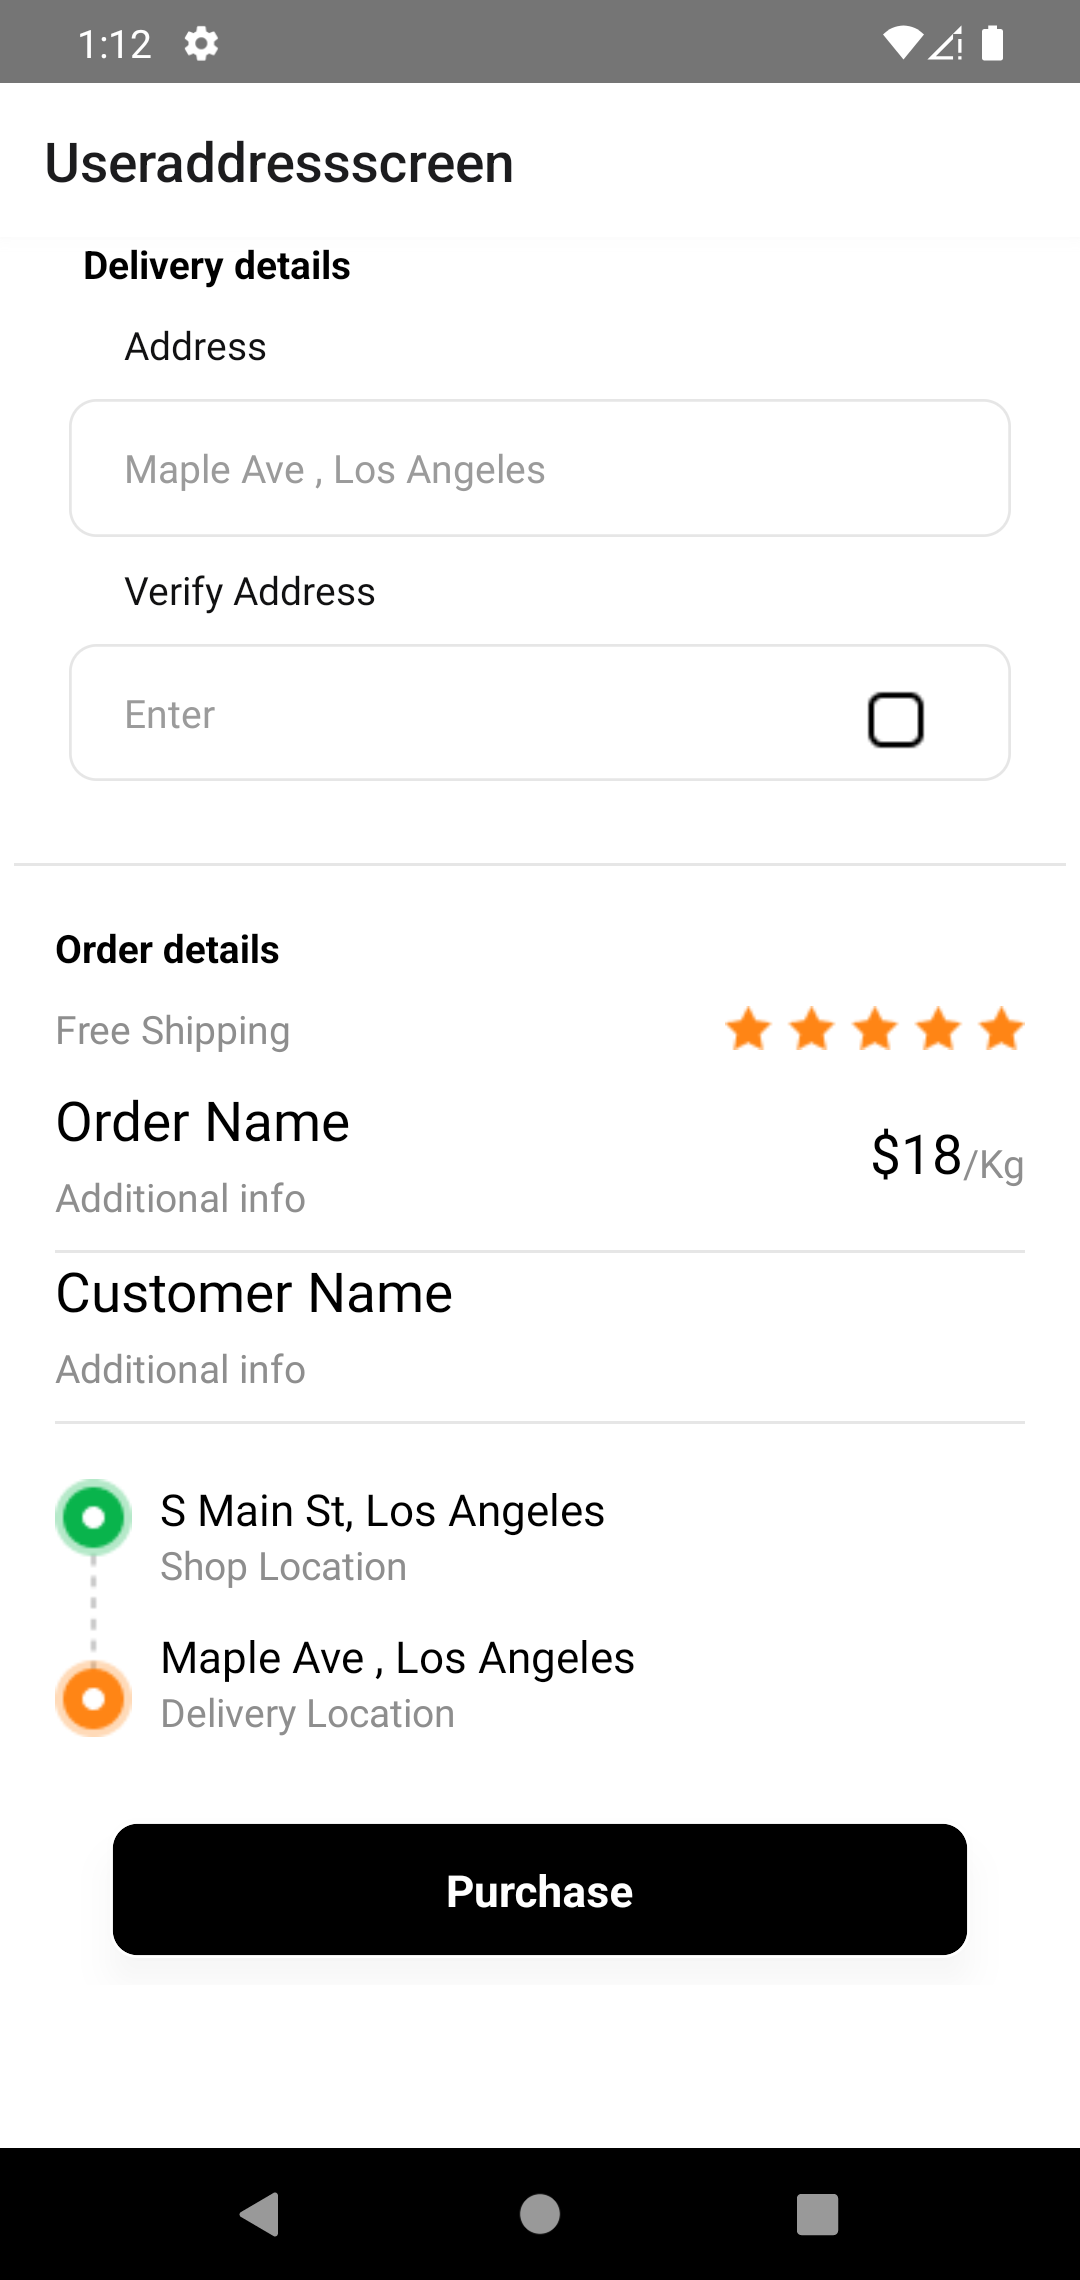
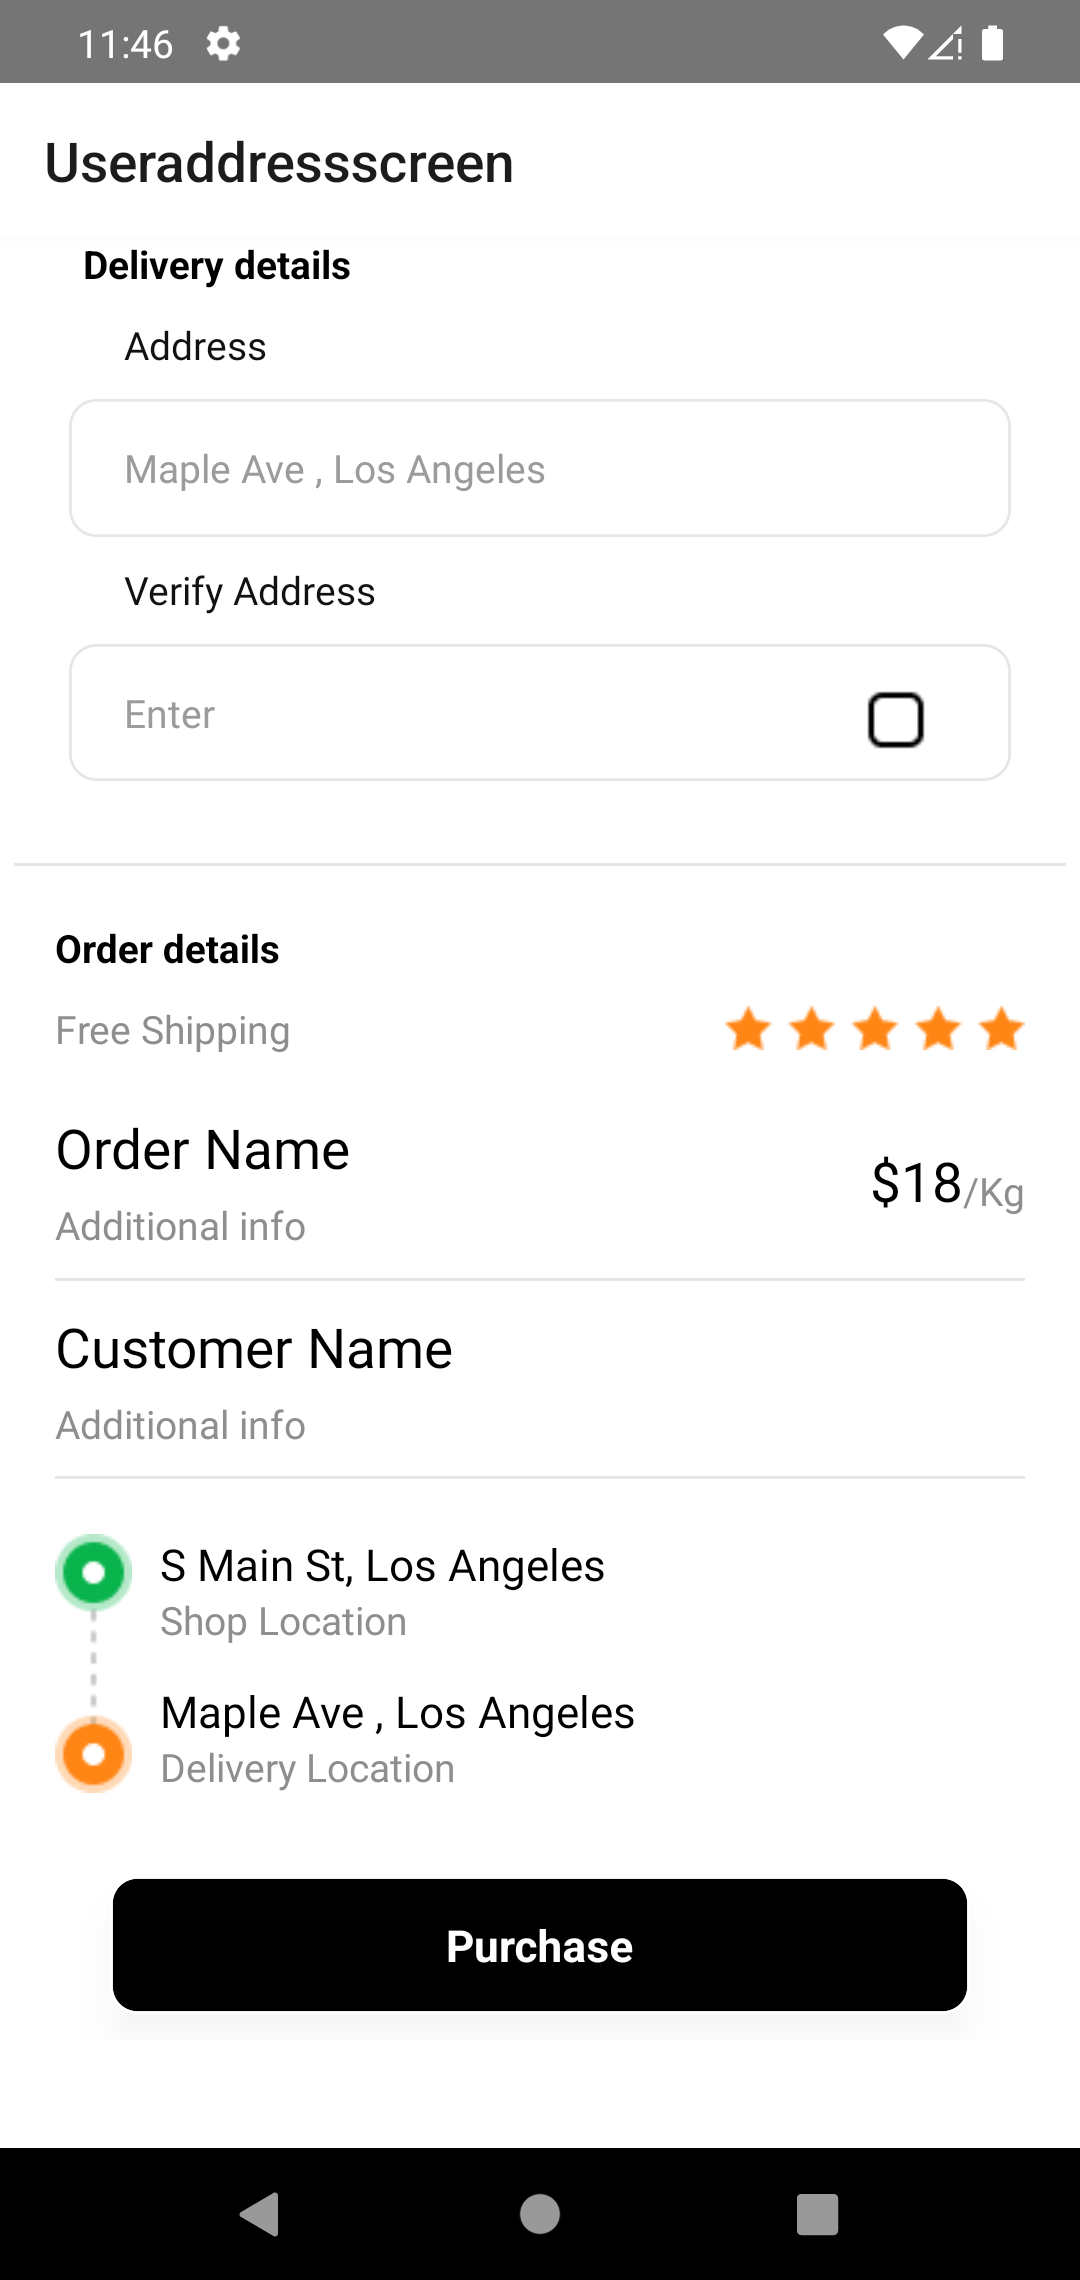
useraddress updated

Changed region(s): [[0.0306, 0.4671, 0.9167, 0.9031], [0.7944, 0.4982, 0.9472, 0.5294], [0.0917, 0.0, 0.2139, 0.0311]]

diff --git a/screens/Useraddressscreen/index.js b/screens/Useraddressscreen/index.js
@@ -138,7 +138,7 @@ const styles = StyleSheet.create({
   detailPallete: {
     flexDirection: "row",
     justifyContent: "space-between",
-    paddingBottom: 10,
+    paddingVertical: 10,
     alignItems: "center",
     borderBottomWidth: 1,
     borderBottomColor: "#e6e6e6"
